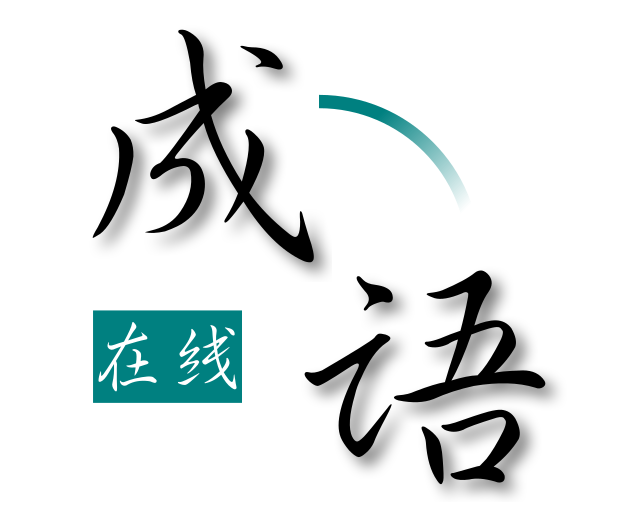
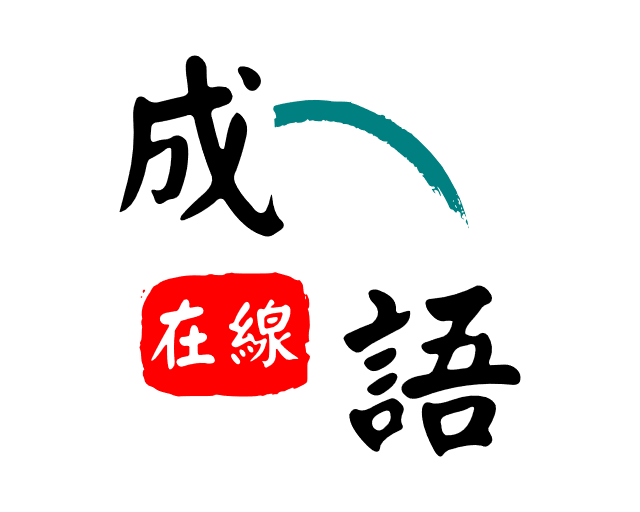
更改Logo

Changed region(s): [[0.125, 0.0625, 0.875, 0.9688]]

diff --git a/app.js b/app.js
@@ -1,6 +1,6 @@
 App({
   globalData: {
-    version: '1.0.26',
+    version: '1.0.27',
     platform: '微信',
     launchInf: null
   },
